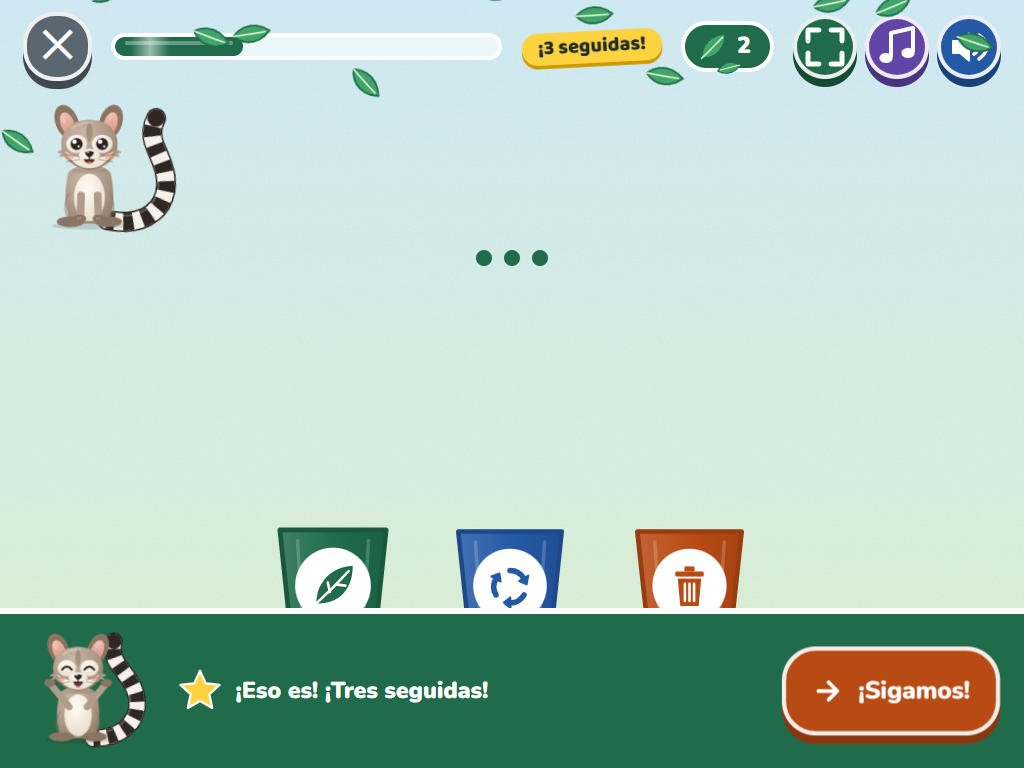
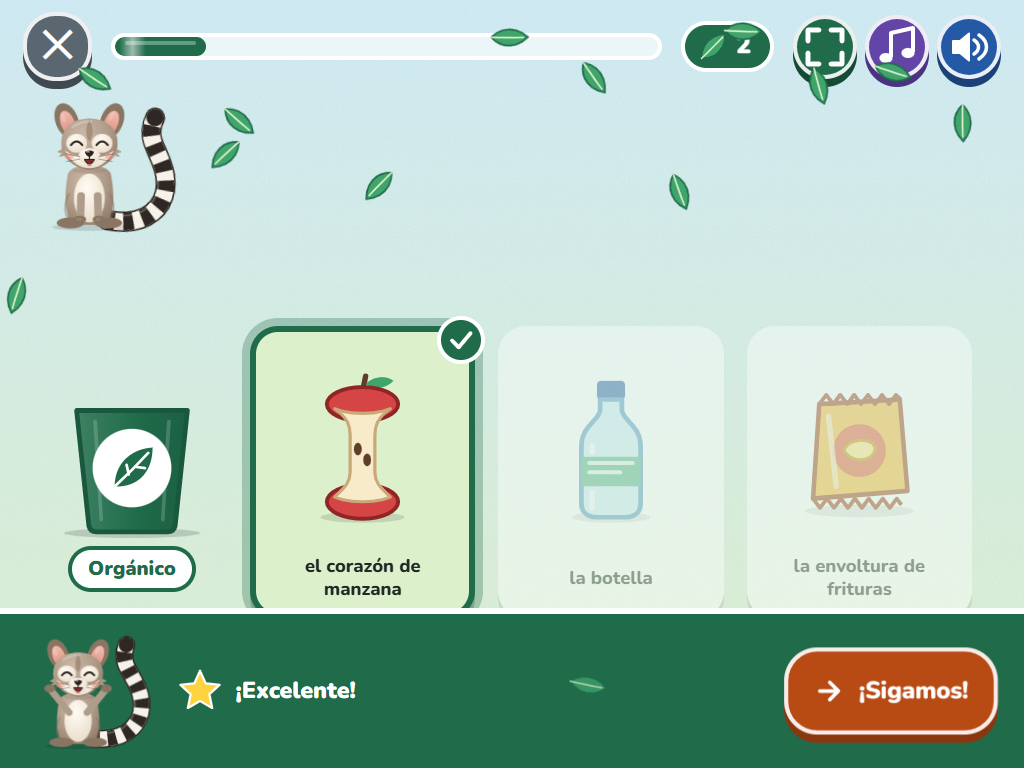
README: nombres reales de los 7 tipos de ejercicio y de las unidades, 20 lecciones, y capturas regeneradas
Los tipos son Elige la imagen, Al bote, Parejas, ¿Sí o no?, Ordena los pasos, Encuentra el
error y Escucha y toca; las unidades llevan sus títulos exactos; son 4 lecciones por unidad (20)
de 6 a 7 ejercicios; la descarga sin internet son 845 archivos y 28 MB; se recuerdan también las
animaciones suaves. Capturas de docs/capturas regeneradas con la versión actual (el vestidor con
hojitas para todos los accesorios, así se ven a color; el acierto en un ejercicio de tarjetas).

diff --git a/README.md b/README.md
@@ -2,7 +2,7 @@
 
 Videojuego educativo para **Eco Urban A.C.** (Toluca, Estado de México), hecho para el programa *Escuelas Comprometidas con el Medio Ambiente*.
 
-Mixtle, un cacomixtle que vive en los árboles del parque, guía a cada grupo de salón por un **camino de aprendizaje** con cinco unidades: separar la basura, los animales del parque, los árboles, el aire limpio y reducir y reutilizar. Cada lección dura unos 3 minutos y cada unidad termina con una **aventura** (un minijuego) y una **estampa** para el álbum.
+Mixtle, un cacomixtle que vive en los árboles del parque, guía a cada grupo de salón por un **camino de aprendizaje** con cinco unidades: *Separa tu basura*, *Los animales del parque*, *Árboles y áreas verdes*, *Aire limpio* y *Reduce y reutiliza*. Son 20 lecciones (4 por unidad) de unos 3 minutos y cada unidad termina con una **aventura** (un minijuego) y una **estampa** para el álbum.
 
 - **Para quién:** niñas y niños de 1º a 3º de primaria (6 a 8 años). Mixtle narra todo en voz alta; el texto acompaña, pero no hace falta saber leer.
 - **Dónde se juega:** en la laptop de Eco Urban proyectada en el salón (todo el grupo participa) o en tablets táctiles. Después de la primera visita funciona **sin internet**.
@@ -22,7 +22,7 @@ Mixtle, un cacomixtle que vive en los árboles del parque, guía a cada grupo de
 
 En corto:
 
-1. **Antes del taller, con buena señal,** abre <https://mixtle-al-rescate.vercel.app> una vez en cada aparato y espera a que el modo facilitador diga **"Listo para usar sin internet"** (unos 27 MB; 3 a 4 minutos con una red lenta). Desde entonces el juego funciona sin conexión.
+1. **Antes del taller, con buena señal,** abre <https://mixtle-al-rescate.vercel.app> una vez en cada aparato y espera a que el modo facilitador diga **"Listo para usar sin internet"** (unos 28 MB; 3.8 minutos con una red lenta). Desde entonces el juego funciona sin conexión.
 2. **Crea el grupo** en "¿Quién va a jugar?": un animal, un color y, si quieren, una etiqueta corta como "2°B". **Nunca se piden nombres** de niñas ni niños.
 3. **El camino.** Arriba está el parque del grupo, que se llena de vida conforme avanzan; abajo, las lecciones por unidad, un cofre a la mitad y la aventura al final. La primera vez, Mixtle hace un **recorrido guiado** de la pantalla (se puede saltar).
 4. **Modo facilitador:** mantén presionado el logo de Mixtle (arriba a la izquierda) 3 segundos. Ahí se puede abrir todas las lecciones para saltar a una, poner el **modo proyector** (todo más grande), las **animaciones suaves**, crear un **grupo de demostración** con todo terminado (para enseñar el juego en una reunión), reiniciar o borrar el grupo, y ver si ya está listo para usar sin internet.
@@ -34,11 +34,11 @@ En corto:
 |---|---|---|
 | 1. Separa tu basura | **Limpia el parque**: recoger la basura, llevar cada residuo a su bote, sembrar donde quedó limpio, y la "lluvia de basura" | Cacomixtle |
 | 2. Los animales del parque | **Rescate en el parque**: liberar a los animales atrapados y separar su basura | Mariposa monarca |
-| 3. Los árboles | **Siembra un bosquecito**: plantar seis arbolitos y regarlos hasta que crezcan | Colibrí |
-| 4. El aire limpio | **En bici a la escuela**: cambiar de carril y esquivar el humo | Ajolote de montaña |
-| 5. Reducir y reutilizar | **Mi lonchera sin basura**: cada cosa a la lonchera o a "Mejor no" | Tlacuache |
+| 3. Árboles y áreas verdes | **Siembra un bosquecito**: plantar seis arbolitos y regarlos hasta que crezcan | Colibrí |
+| 4. Aire limpio | **En bici a la escuela**: cambiar de carril y esquivar el humo | Ajolote de montaña |
+| 5. Reduce y reutiliza | **Mi lonchera sin basura**: cada cosa a la lonchera o a "Mejor no" | Tlacuache |
 
-Cada unidad tiene 4 o 5 lecciones de 6 a 8 ejercicios, con siete tipos de ejercicio (elegir, arrastrar a los botes, parejas, ordenar, encontrar el error, verdadero o falso y completar la escena). Un error nunca castiga: Mixtle dice "¡Casi!", da una pista y el ejercicio vuelve al final para repasar.
+Cada unidad tiene 4 lecciones (20 en total) de 6 a 7 ejercicios, con siete tipos de ejercicio: **Elige la imagen**, **Al bote**, **Parejas**, **¿Sí o no?**, **Ordena los pasos**, **Encuentra el error** y **Escucha y toca** (sin texto, para quienes todavía no leen). Un error nunca castiga: Mixtle dice "¡Casi!", da una pista y el ejercicio vuelve al final para repasar.
 
 | Camino | Acierto en una lección |
 |---|---|
@@ -58,7 +58,7 @@ Cada unidad tiene 4 o 5 lecciones de 6 a 8 ejercicios, con siete tipos de ejerci
 - El avance de cada grupo se guarda **solo en ese aparato** (IndexedDB del navegador). No viaja a ningún servidor; no hay cuentas ni analítica.
 - El juego **solo descarga** (peticiones GET). Las pruebas automáticas verifican que ninguna petición envíe datos.
 - **No usa la cámara ni el micrófono**, y la configuración del sitio los bloquea (`Permissions-Policy`).
-- Las únicas preferencias que se recuerdan son los botones de voz y música y el modo proyector.
+- Las únicas preferencias que se recuerdan en el aparato son los botones de voz y música, el modo proyector y las animaciones suaves.
 
 ### IA responsable
 
@@ -91,7 +91,7 @@ El juego usa técnicas de diseño de juegos para atraer y motivar, todas orienta
 
 Todo el contenido vive en archivos de datos separados de la lógica, marcados con `TODO(Eco Urban)`. Cada dato que Mixtle dice tiene su fuente en [`docs/fuentes-contenido.md`](docs/fuentes-contenido.md) (CONABIO, CONANP, SEMARNAT, CONAFOR, UNAM, UAEMéx, DOF y, para reciclaje, ECOCE y la industria responsable). El detalle completo está en [`docs/notas-tecnicas.md`](docs/notas-tecnicas.md); en corto:
 
-- **Contenido** (textos, lecciones, ejercicios, datos de las estampas): `src/contenido/unidades/u1-separa.ts` … `u5-reutiliza.ts`, `src/contenido/aventuras.ts` y `src/contenido/textosApp.ts`. Los residuos y los botes (de 2 a 4 categorías) están en `src/data/`. Las pruebas automáticas revisan que el contenido siga siendo válido después de un cambio.
+- **Contenido** (textos, las 20 lecciones y sus ejercicios, datos de las estampas): `src/contenido/unidades/u1-separa.ts` … `u5-reutiliza.ts`, `src/contenido/aventuras.ts` y `src/contenido/textosApp.ts`. Los residuos y los botes (de 2 a 4 categorías) están en `src/data/`. Las pruebas automáticas revisan que el contenido siga siendo válido después de un cambio.
 - **Cambiar la voz.** Hay dos caminos: (a) **otra voz de Azure** con `npm run voz:usar -- azure` y los ajustes de `voz.config.json`, y después `npm run voz:generar` (el plan gratuito de Azure alcanza para regenerar todo más de 10 veces al mes; se necesita una llave propia en `.env.local`, nunca en el repositorio); (b) **una voz humana**: `npm run voz:lista` genera `docs/frases-mixtle.csv` con todas las frases; se graban en `voz-grabaciones/` con el nombre indicado y `npm run voz:generar` las toma en lugar de la voz generada. La pronunciación de palabras sueltas ("Mixtle" suena "miks-tle") se ajusta en el diccionario de `voz.config.json` sin tocar el texto en pantalla.
 - **Cambiar la música.** Las tres pistas son CC0 y están en `public/musica/`. `npm run musica:muestras` genera una página para escuchar candidatas; se elige en `scripts/musica/elegidas.json` y se instala con `npm run musica:instalar`. Hay que anotarla en `CREDITOS.md`.
 - **Marca.** El logo, el ícono y la hoja de personaje de Mixtle están en `docs/marca/` y la guía en [`docs/marca.md`](docs/marca.md).
@@ -114,7 +114,7 @@ Medido entre el 27 y el 30 de octubre de 2026 en una laptop de 8 GB (Intel Core 
 | Cuadros por segundo con tarjeta de video | **59–60 fps** en los momentos más pesados, a 1920×1080 y 1024×768 |
 | Equipos sin aceleración por tarjeta de video | 11–33 fps con todo; el juego lo detecta y pasa solo a las **animaciones suaves: 57–60 fps** |
 | "¡Jugar!" → "¿Quién va a jugar?" con red lenta (Slow 4G), primera visita | **0.35–0.38 s** (antes de optimizar: 5.2 s) |
-| "Listo para usar sin internet" con Slow 4G, en producción | **3.8 min** (844 archivos, ~27 MB, en segundo plano sin estorbar) |
+| "Listo para usar sin internet" con Slow 4G, en producción | **3.8 min** (845 archivos, 28 MB, en segundo plano sin estorbar) |
 | Voz | 798 frases con audio grabado, 25 MB; el silencio dentro de los audios bajó de 30 % a 16 % |
 | Diploma | Se imprime en una sola hoja, carta y A4 |
 | Pruebas unitarias (Vitest) | **1499 pruebas en 43 archivos, todas pasan** (contenido válido, voz completa, camino y grupos, arte de Mixtle, música, aventuras, privacidad de la llave) |
@@ -131,7 +131,7 @@ Medido entre el 27 y el 30 de octubre de 2026 en una laptop de 8 GB (Intel Core 
 - **El avance vive en un solo aparato.** Si se borran los datos del navegador o se cambia de laptop, el grupo empieza de nuevo. Es a propósito (no hay servidor ni cuentas).
 - **La voz es sintética** (Alejo, de Azure). Suena natural, pero alguna palabra puede sonar rara; se corrige con el diccionario de pronunciación o grabando una voz humana. Falta que Eco Urban confirme que le gusta esta voz.
 - **El tráiler tiene la voz anterior de Mixtle**; no se volvió a grabar.
-- **La primera visita necesita internet** (unos 27 MB en segundo plano). Conviene abrir el juego una vez con buena señal antes del taller.
+- **La primera visita necesita internet** (unos 28 MB en segundo plano). Conviene abrir el juego una vez con buena señal antes del taller.
 - **Por confirmar con Eco Urban:** los precios de los accesorios del vestidor, que los ambientes de cada unidad se sientan "de Toluca" y la frase de Mixtle ("¡Al rescate!").
 
 ## Siguiente paso recomendado

diff --git a/docs/notas-tecnicas.md b/docs/notas-tecnicas.md
@@ -7,7 +7,7 @@ Detalle técnico para quien mantenga o extienda el juego. El resumen está en el
 1. **Inicio → ¿Quién va a jugar?** Se elige el grupo o se crea uno: un animal (colibrí, ardilla, monarca, ajolote, tlacuache o cacomixtle), un color y, si se quiere, una etiqueta corta como "1°A". **Nunca se piden nombres de niñas ni niños**, y la pantalla lo recuerda.
 2. **El camino.** Arriba está el **parque del grupo**: empieza gris y con basura, y se limpia y llena de árboles, flores y animales conforme el grupo avanza. Abajo, el camino en zigzag, por tramos: cada unidad con su postal y su paleta. En cada tramo están sus lecciones, un **cofre** a la mitad y la **aventura** al final. Mixtle se para junto a la siguiente lección y la señala, y la mascota del grupo (vestida) brinca a su lado. Las lecciones se abren en orden y las terminadas se pueden repetir.
    - **Recorrido guiado (la primera vez de cada grupo).** La primera vez que un grupo llega al camino, Mixtle enseña para qué sirve cada cosa, una a la vez y en voz alta: la siguiente parada, el parque, las hojitas, los días jugados, el álbum, el vestidor, la casita para cambiar de grupo y los botones de pantalla completa, música y voz. Lo señalado se ilumina con un marco dorado y lo demás se oscurece. **«Saltar» está a la vista desde el primer paso** (también Escape), y hay «Atrás» y «Siguiente» (o las flechas del teclado). Se recuerda **en el avance del grupo, no en el aparato** (muchos maestros usan su propio dispositivo con niños distintos en cada grupo): ya visto o saltado por ese grupo, no vuelve a salir; los grupos que ya existían antes de esta marca no lo ven otra vez; para verlo otra vez está **«Ver otra vez el recorrido por el juego»** en el modo facilitador. Con `?e2e` no sale (pruebas, capturas y tráiler), salvo con `?recorrido-guiado`. Se revisó en el juego a 1920×1080 y 1024×768: en los 20 pasos, la tarjeta nunca tapa lo señalado y nada se sale de la pantalla.
-3. **Una lección** (6 a 8 ejercicios, unos 3 minutos). Barra de avance arriba, botón para salir con confirmación amable, y Mixtle narra cada consigna.
+3. **Una lección** (6 a 7 ejercicios, unos 3 minutos). Barra de avance arriba, botón para salir con confirmación amable, y Mixtle narra cada consigna.
    - **Bien:** banner verde, lluvia de hojitas, Mixtle celebra (distinto cada vez) y dice una frase de ánimo. Si salió a la primera, la hojita ganada vuela al contador. Con 3, 5, 7 o 10 seguidas a la primera, "¡3 seguidas!".
    - **Casi:** banner naranja con una pista y "Intentar otra vez". No hay vidas ni castigos; lo que salió mal vuelve al final para repasar.
    - **A la mitad:** destello en la barra y "¡Ya van a la mitad! ¡Vamos!".
@@ -114,7 +114,7 @@ Todo el contenido vive en archivos de datos, separado de la lógica, para que el
 - **`src/contenido/textosApp.ts`:** lo que dice Mixtle en las pantallas (grupos, camino, cofre, lección, álbum).
 - **`src/data/residuos.ts` y `src/data/categorias.ts`:** los residuos y los botes, configurables como en la v1 (de 2 a 4 botes cambiando solo `categorias.ts`; los ejemplos están al final del archivo).
 
-Las pruebas revisan que el contenido sea válido: 4 o 5 lecciones por unidad, de 6 a 8 ejercicios con al menos 3 tipos distintos, respuestas correctas que existen, dibujos que existen, ningún ejercicio imposible y todos los residuos con exactamente un bote.
+Las pruebas revisan que el contenido sea válido: de 4 a 5 lecciones por unidad (hoy son 4, 20 en total), de 6 a 8 ejercicios por lección (hoy de 6 a 7) con al menos 3 tipos distintos, respuestas correctas que existen, dibujos que existen, ningún ejercicio imposible y todos los residuos con exactamente un bote.
 
 **Datos verdaderos.** Cada dato que dice Mixtle tiene su fuente en [`docs/fuentes-contenido.md`](docs/fuentes-contenido.md) (CONABIO, CONANP, SEMARNAT, CONAFOR, UNAM, OMS, EPA, entre otras). Ahí también está lo que **no** se usa por no tener fuente confiable (por ejemplo, "un popote tarda 500 años en degradarse"). Si se agrega un dato, hay que anotar su fuente.
 
@@ -249,7 +249,7 @@ Los efectos de sonido se generan con `npm run sonidos:generar`.
 
 **Pruebas unitarias (Vitest)**, en `tests/`: **1499 pruebas en 43 archivos, todas pasan** (30 de octubre de 2026, `npm run verificar` en verde: tipos, lint, pruebas, build y presupuesto). Además de las de la v2, la v3 agrega pruebas de marca (logo al día con las fuentes, 8 poses, presupuesto de la primera pantalla), migración y mudanza de datos, nombre (ningún "Caco" en código ni voz), Azure contra un servidor falso, protección de la llave, vitrina y transición, racha y mitad de lección, recompensas, diplomas, accesorios y vestidor, y el ajuste automático por rendimiento. Entre ellas:
 
-- **Contenido válido:** cada unidad tiene 4 o 5 lecciones; cada lección tiene de 6 a 8 ejercicios con al menos 3 tipos; las respuestas correctas existen, los dibujos existen, no hay ejercicios imposibles (parejas sin repetir, "encuentra el error" con 1 a 3 errores dentro de la escena). Cuando una pregunta habla de un bote, dice su color **y su nombre** ("el bote naranja de no reciclable") y el bote se ve en pantalla. Cada archivo de contenido está marcado con `TODO(Eco Urban)`.
+- **Contenido válido:** cada unidad tiene de 4 a 5 lecciones (hoy 4, 20 en total); cada lección tiene de 6 a 8 ejercicios (hoy de 6 a 7) con al menos 3 tipos; las respuestas correctas existen, los dibujos existen, no hay ejercicios imposibles (parejas sin repetir, "encuentra el error" con 1 a 3 errores dentro de la escena). Cuando una pregunta habla de un bote, dice su color **y su nombre** ("el bote naranja de no reciclable") y el bote se ve en pantalla. Cada archivo de contenido está marcado con `TODO(Eco Urban)`.
 - **Voz:** **toda frase narrada (785) tiene su audio en el manifiesto** y su mp3 existe, y **las 175 frases con números** (fin de lección, cofre, diplomas y la pregunta de cada accesorio) suenan como **un solo audio**, sin piezas encadenadas.
 - **Camino y grupos:** las lecciones se desbloquean en orden; el cofre y la aventura se abren a su tiempo; el avance de cada grupo se guarda y se recupera por separado, y **la app no falla si IndexedDB está bloqueado**.
 - **Arte de Mixtle:** todas las poses del catálogo, el logo, el colgado del inicio y el cuerpo en línea usan la misma paleta, la misma cabeza y ojos y la cola con los mismos anillos; y cada Mixtle en línea define sus propios degradados (dos en la misma página no comparten id, y el logo de la app no comparte id con el de la pantalla de carga): `tests/paletaMixtle.test.ts` y `tests/mixtleFigura.test.tsx`.
@@ -419,7 +419,7 @@ Las laptops que hoy tienen un build anterior a este arreglo abierto necesitan un
 2. Si no, **cerrar todas las pestañas del juego** y volver a abrir el link. Con eso el *service worker* nuevo toma el control.
 3. Si sigue igual, en la pestaña del juego: **Ctrl+Shift+R** (recarga sin caché).
 4. **Nunca "Borrar datos del sitio"** desde la configuración del navegador: eso borra los grupos y su avance, que solo viven en esa laptop. Cerrar pestañas y recargar no los tocan.
-- **La primera visita necesita internet:** para que después funcione sin conexión se bajan unos 27 MB (sobre todo las voces), en segundo plano y sin estorbar el juego. Con Slow 4G, los 34 MB de antes del recorte de la voz tardaban ~4.1 min en producción; con 27 MB son **3.8 min**, medidos en producción el 30 de octubre (ver *Carga en una red lenta*). Conviene abrir el juego una vez con buena señal antes del taller y revisar en el modo facilitador que diga "Listo para usar sin internet".
+- **La primera visita necesita internet:** para que después funcione sin conexión se bajan unos 28 MB (sobre todo las voces), en segundo plano y sin estorbar el juego. Con Slow 4G, los 34 MB de antes del recorte de la voz tardaban ~4.1 min en producción; con 27 MB son **3.8 min**, medidos en producción el 30 de octubre (ver *Carga en una red lenta*). Conviene abrir el juego una vez con buena señal antes del taller y revisar en el modo facilitador que diga "Listo para usar sin internet".
 
 - **Las aventuras son minijuegos cortos** (2 a 4 minutos). Las del bosquecito y la lonchera siempre tienen el mismo número de cosas: los diplomas muestran el esfuerzo, no un puntaje para comparar grupos.
 - El diploma de la unidad 1 cuenta los residuos separados en el nivel 2 y en la lluvia de basura (12 + 5) y los animales ayudados.

diff --git a/CHANGELOG.md b/CHANGELOG.md
@@ -36,7 +36,7 @@ Fechas de octubre de 2026. Las etiquetas de git marcan las versiones que vio Eco
 ## v2-eco-urban (27 de octubre) — primera versión que vio Eco Urban
 
 - Arquitectura nueva: React para las pantallas y Phaser solo para las aventuras.
-- Camino de aprendizaje con 5 unidades, lecciones de 6 a 8 ejercicios con 7 tipos de ejercicio dirigidos por datos, cofres y una aventura por unidad.
+- Camino de aprendizaje con 5 unidades, 20 lecciones de 6 a 7 ejercicios con 7 tipos de ejercicio dirigidos por datos, cofres y una aventura por unidad.
 - Grupos de salón (animal, color y etiqueta), avance guardado en el aparato, álbum de estampas con animales de Toluca.
 - Voz pregenerada del personaje, igual en todos los equipos, y música CC0 con *ducking*.
 - Se quitó el módulo de cámara de la v1.
